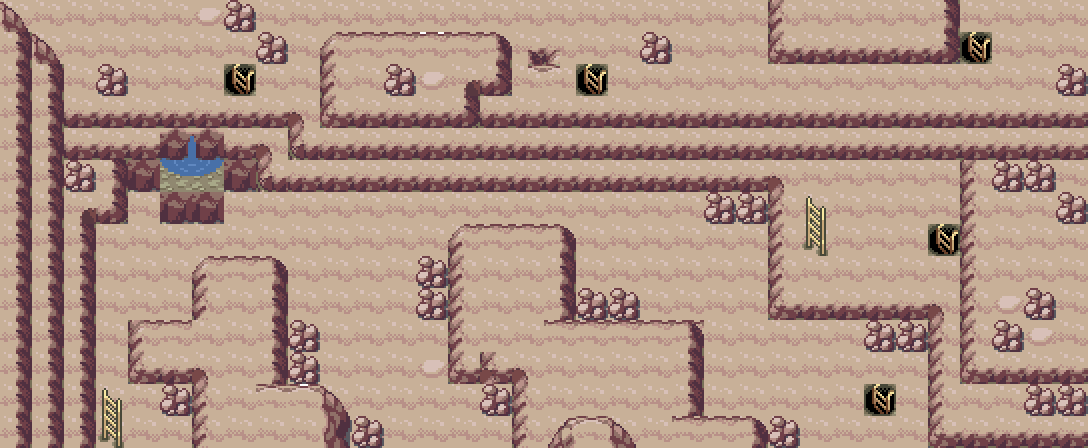
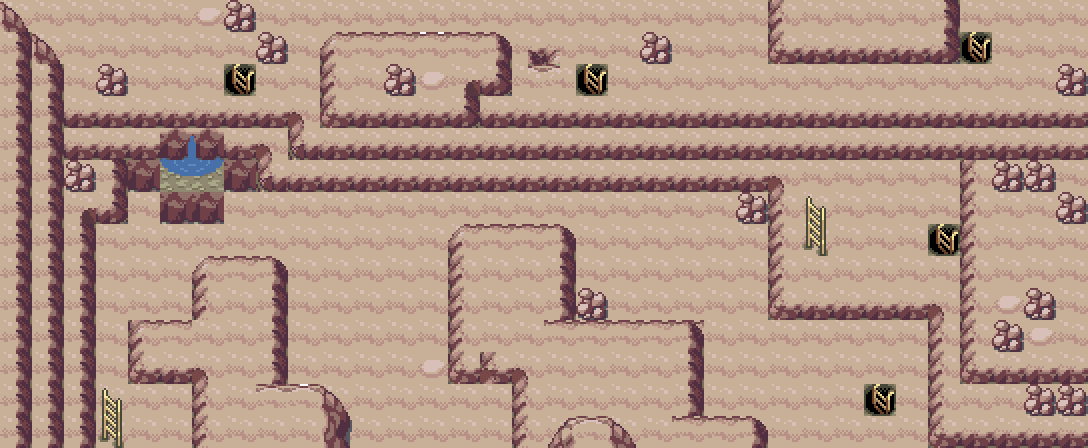
finalVersion

diff --git a/test_adventure.py b/test_adventure.py
@@ -323,6 +323,54 @@ def test_breakable_cave_rocks():
         pygame.quit()
 
 
+def test_zubat_event_tile_is_forced_by_breakable_rock_below_it():
+    game = Adventure(None)
+    dismiss_opening(game)
+    try:
+        cave = game.tile_maps["grancave"]
+        entrance = (25, 10)
+        next_floor = (13, 9)
+        zubat_tile = (17, 5)
+        new_rock = (17, 6)
+
+        zubat_event = next(event for event in game.map_events
+                           if event["id"] == "zubat_encounter")
+        assert tuple(zubat_event["position"]) == zubat_tile
+        assert new_rock in cave.blocked
+        assert game.is_breakable_rock(cave, new_rock)
+
+        def reachable(blocked, forbidden=frozenset()):
+            queue = deque([entrance])
+            visited = {entrance}
+            while queue:
+                point = queue.popleft()
+                if point == next_floor:
+                    return True
+                for dx, dy in ((1, 0), (-1, 0), (0, 1), (0, -1)):
+                    target = point[0] + dx, point[1] + dy
+                    if (0 <= target[0] < cave.width and 0 <= target[1] < cave.height
+                            and target not in blocked and target not in forbidden
+                            and target not in visited):
+                        visited.add(target)
+                        queue.append(target)
+            return False
+
+        assert reachable(cave.blocked)
+        assert not reachable(cave.blocked, {zubat_tile})
+        assert reachable(cave.blocked - {new_rock}, {zubat_tile})
+
+        lower_before = cave.layers["lower"][new_rock[1]][new_rock[0]]
+        current_before = cave.layers["current"][new_rock[1]][new_rock[0]]
+        assert game.break_rock_at(cave, new_rock)
+        assert cave.layers["lower"][new_rock[1]][new_rock[0]] is lower_before
+        assert cave.layers["current"][new_rock[1]][new_rock[0]] is current_before
+        assert not cave.layers["upper"][new_rock[1]][new_rock[0]].get_bounding_rect(min_alpha=1)
+        assert new_rock not in cave.blocked
+    finally:
+        game.serial.close()
+        pygame.quit()
+
+
 def test_bidirectional_warps():
     game = Adventure(None)
     dismiss_opening(game)
@@ -622,6 +670,7 @@ if __name__ == "__main__":
     test_jirachi_finale_gate_trigger_and_effects()
     test_atomic_grid_movement_and_camera()
     test_breakable_cave_rocks()
+    test_zubat_event_tile_is_forced_by_breakable_rock_below_it()
     test_bidirectional_warps()
     test_ordered_map_event_dialogue_battle_and_once()
     print("story path ok")

diff --git a/README.md b/README.md
@@ -159,7 +159,7 @@ python test_adventure.py
 
 地图以 480×320（15×10 格）逻辑分辨率运行，并按 2 倍最近邻放大到 960×640 窗口。每次方向输入会触发一个不可中断的四帧原子步；目标格被碰撞数据阻挡时不会移动。
 
-在洞穴地图中，`blocked` 且 upper 层有图块的格子会被视为可击碎岩石。面向相邻岩石按 `Z` 可临时触发场外“重磅冲撞”：命中时清除该格 upper 图块及碰撞并播放碎裂动画，普通墙体不会响应。后续可将同一入口替换为 STC-B 的 `0x09` 震动事件。
+在洞穴地图中，`blocked` 且 upper 层有图块的格子会被视为可击碎岩石。面向相邻岩石按 `Z` 可临时触发场外“重磅冲撞”：命中时清除该格 upper 图块及碰撞并播放碎裂动画，露出地图编辑器中预先铺好的裸露地面，不再保留碎石图标；普通墙体不会响应。后续可将同一入口替换为 STC-B 的 `0x09` 震动事件。
 
 世界地图及三层洞穴的楼梯使用统一双向传送表。主角走上楼梯格后会立即切换地图和落点，并播放短暂黑屏淡入；传送不会重新载入地图，因此本次运行中已经粉碎的岩石仍保持粉碎状态。
 
